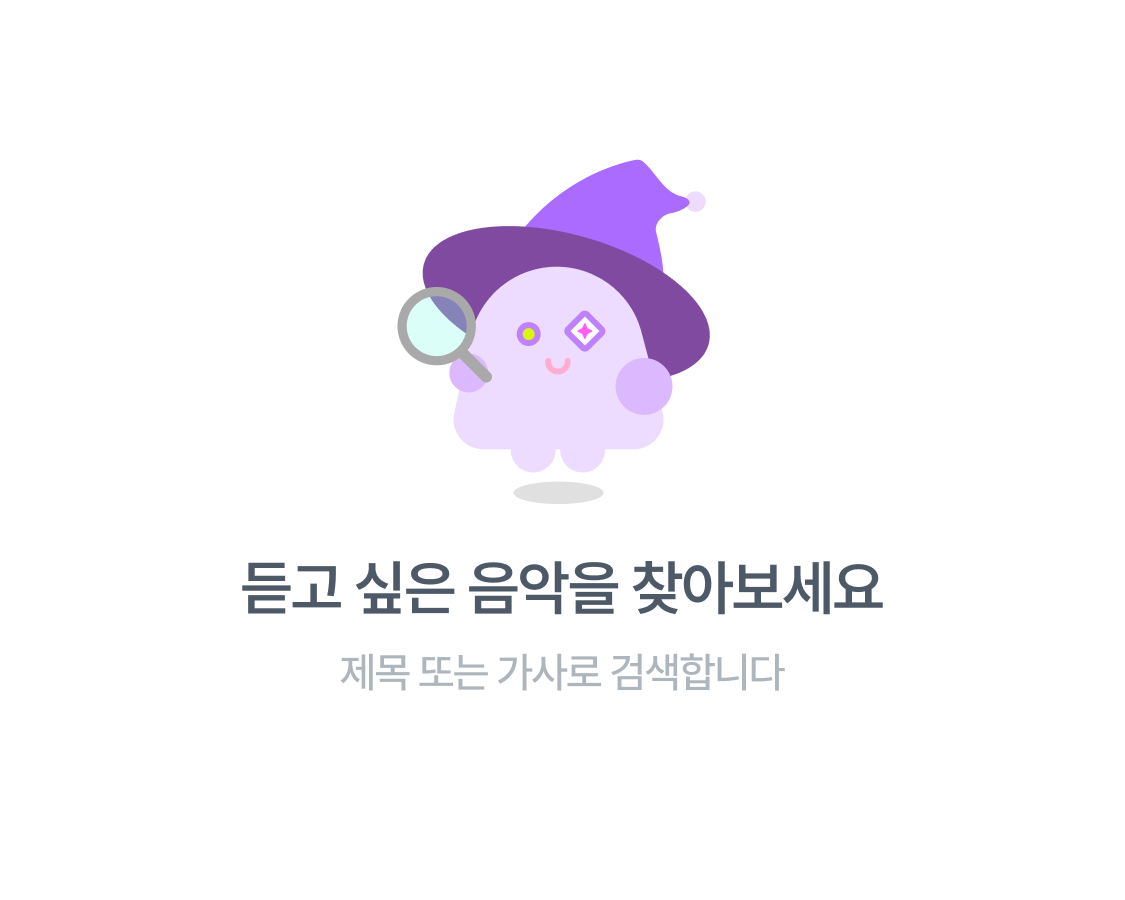
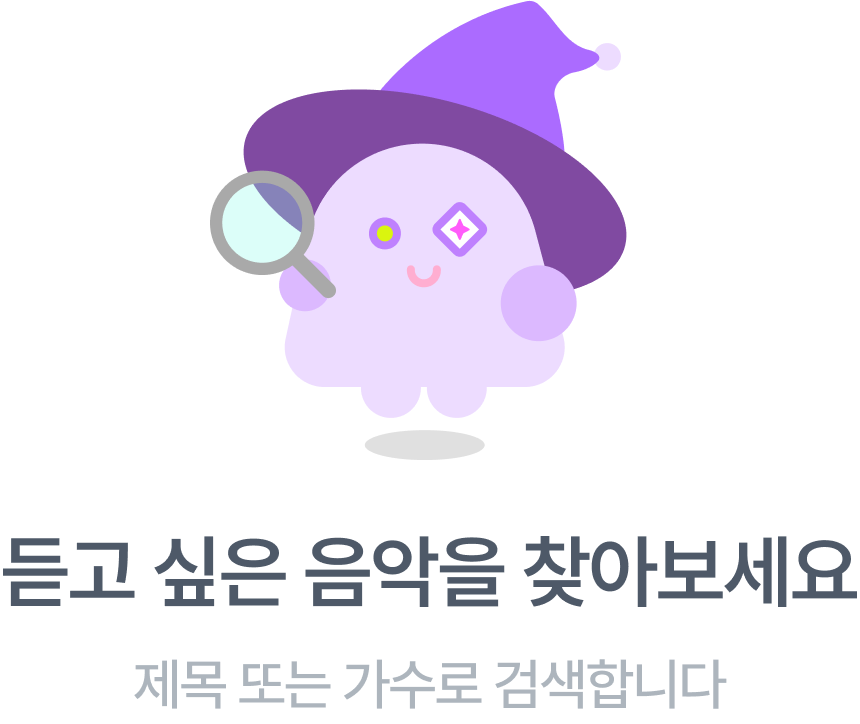
[refator]가사검색 삭제, 이미지 수정

diff --git a/lib/presentation/ui/search/widgets/result/search_result_page.dart b/lib/presentation/ui/search/widgets/result/search_result_page.dart
@@ -61,32 +61,32 @@ class _SearchResultPageState extends ConsumerState<SearchResultPage> {
                   ),
                 ),
                 SizedBox(width: 10),
-                TextButton(
-                  onPressed: () {
-                    if (!lyricsButton) {
-                      changeSelected(false);
-                    }
-                  },
-                  style: ButtonStyle(
-                    backgroundColor: WidgetStateProperty.all(
-                      lyricsButton ? AppColors.main800 : Colors.white,
-                    ),
-                    shape: WidgetStateProperty.all(
-                      RoundedRectangleBorder(
-                        borderRadius: BorderRadius.circular(8),
-                        side: BorderSide(color: Color(0xffE5E8EB)),
-                      ),
-                    ),
-                  ),
-                  child: Text(
-                    '가사 검색',
-                    style: TextStyle(
-                      fontWeight: FontWeight.w500,
-                      fontSize: 16,
-                      color: lyricsButton ? Colors.white : Colors.grey[600],
-                    ),
-                  ),
-                ),
+                // TextButton(
+                //   onPressed: () {
+                //     if (!lyricsButton) {
+                //       changeSelected(false);
+                //     }
+                //   },
+                //   style: ButtonStyle(
+                //     backgroundColor: WidgetStateProperty.all(
+                //       lyricsButton ? AppColors.main800 : Colors.white,
+                //     ),
+                //     shape: WidgetStateProperty.all(
+                //       RoundedRectangleBorder(
+                //         borderRadius: BorderRadius.circular(8),
+                //         side: BorderSide(color: Color(0xffE5E8EB)),
+                //       ),
+                //     ),
+                //   ),
+                //   child: Text(
+                //     '가사 검색',
+                //     style: TextStyle(
+                //       fontWeight: FontWeight.w500,
+                //       fontSize: 16,
+                //       color: lyricsButton ? Colors.white : Colors.grey[600],
+                //     ),
+                //   ),
+                // ),
               ],
             ),
           ),
@@ -94,7 +94,7 @@ class _SearchResultPageState extends ConsumerState<SearchResultPage> {
             height: 10,
           ),
           Expanded(
-            child: titleButton ? SearchResultSpotify() : SearchResultNaver(),
+            child: SearchResultSpotify(),
           ),
         ],
       ),

diff --git a/lib/presentation/ui/search/widgets/search_page.dart b/lib/presentation/ui/search/widgets/search_page.dart
@@ -5,13 +5,17 @@ class SearchPage extends StatelessWidget{
 
   @override
   Widget build(BuildContext context) {
-    return Container(
-          decoration: BoxDecoration(
-            image: DecorationImage(
-              image: AssetImage('assets/images/search_page.png'),
-              alignment: Alignment(0, -0.5)
-            )
-          )
+    return Center(
+      child: Container(
+            decoration: BoxDecoration(
+              image: DecorationImage(
+                image: AssetImage('assets/images/search_page.png'),
+                alignment: Alignment(0, -0.5)
+              ),
+            ),
+            height: 300,
+            width: 300,
+      ),
     );
   }
 

diff --git a/lib/presentation/ui/search/widgets/search_area.dart b/lib/presentation/ui/search/widgets/search_area.dart
@@ -68,7 +68,7 @@ class _SearchAreaState extends ConsumerState<SearchArea> {
               decoration: InputDecoration(
                 filled: true,
                 fillColor: Colors.black12,
-                hintText: '제목 또는 가사 검색',
+                hintText: '제목 또는 가수로 검색',
                 hintStyle: TextStyle(
                   fontSize: 16,
                   fontWeight: FontWeight.w600,
